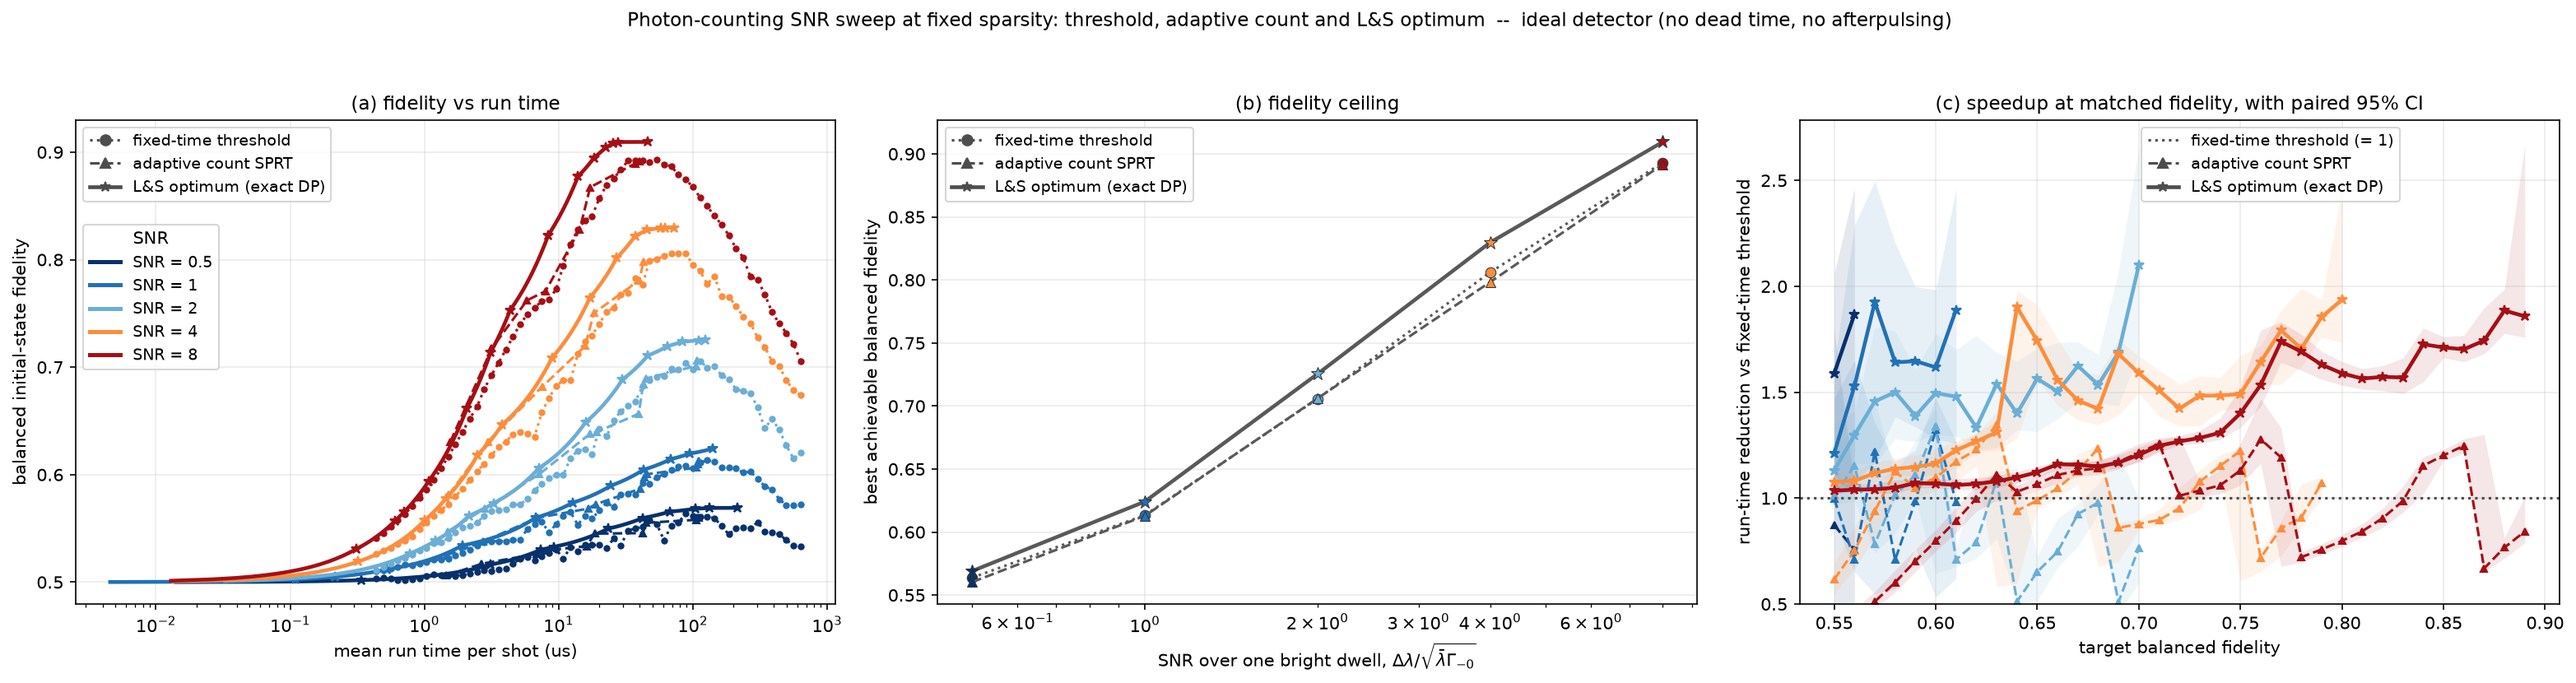
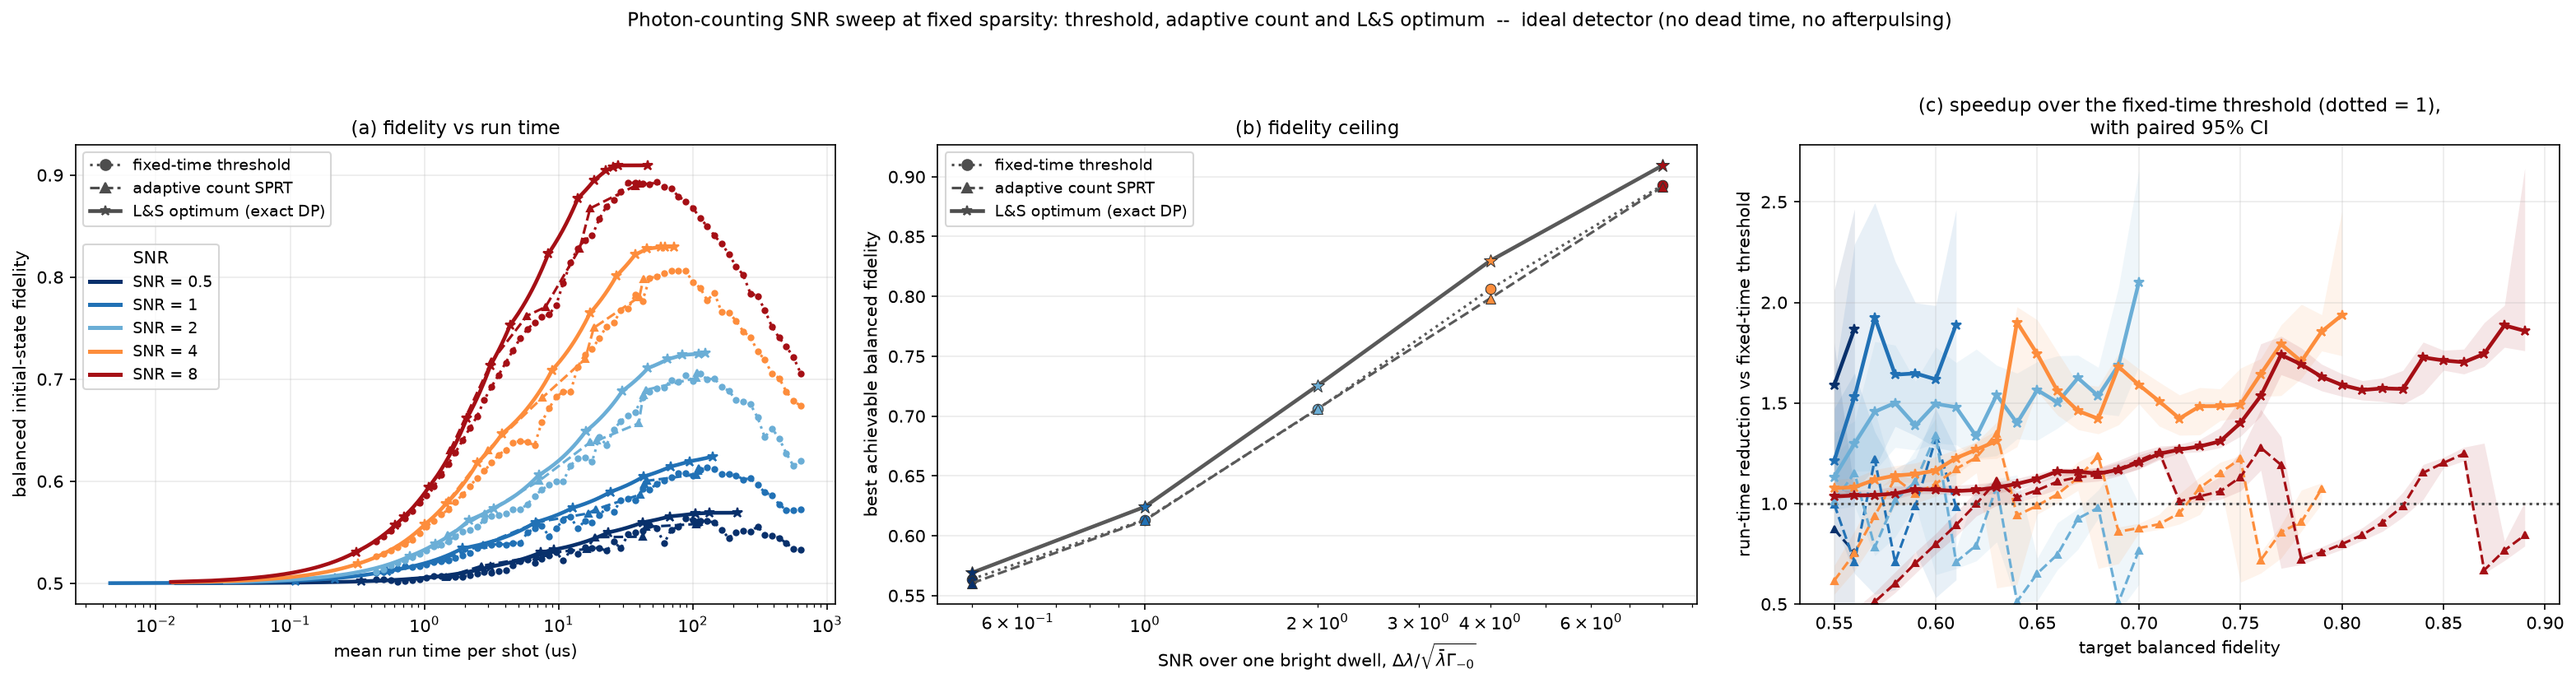
Three-method figure for the ratio and contrast sweeps too
`plot ratio` and `plot contrast` now write <experiment>_thr_count_opt.png
(threshold, adaptive count and L&S optimum only) for every detector model,
like `plot snr`. Panel (c) drops its legend -- line styles are keyed in (a)
and (b) -- since on these sweeps it sat on curves wherever it went; its
title names the baseline instead.

Claude-Session: https://claude.ai/code/session_01QPNqKJ2d1r7hY2FSJML7Zq

diff --git a/adaptive_charge_state_master.py b/adaptive_charge_state_master.py
@@ -4858,7 +4858,7 @@ def _ceiling_panel(ax, results: list[dict], spec: SweepSpec, series, title="fide
 
 # Sweeps that also get the three-method figure: the baseline, the count-only
 # stopping rule and the exact optimum, without the rules in between.
-THREE_WAY_SWEEPS = ("snr",)
+THREE_WAY_SWEEPS = ("snr", "ratio", "contrast")
 
 _THREE_WAY_METHODS = (
     # (label, line style, marker, width)
@@ -4967,16 +4967,10 @@ def plot_three_way(
     ax.set_ylim(bottom=max(0.5, ax.get_ylim()[0]))
     ax.set_xlabel("target balanced fidelity")
     ax.set_ylabel("run-time reduction vs fixed-time threshold")
-    ax.set_title("(c) speedup at matched fidelity, with paired 95% CI", fontsize=11)
-    speed_handles = [
-        Line2D([], [], color="0.3", ls=ls_t, lw=lw_t, label=f"{lab_t} (= 1)"),
-        Line2D([], [], color="0.3", ls=ls_c, marker=mk_c, lw=lw_c, label=lab_c),
-        Line2D([], [], color="0.3", ls=ls_o, marker=mk_o, lw=lw_o, label=lab_o),
-    ]
-    # Colour is keyed to the swept variable in panel (a); only the methods
-    # need a key here, in the empty space above the curves.
-    ax.legend(handles=speed_handles, loc="upper center",
-              bbox_to_anchor=(0.62, 1.0), fontsize=9)
+    # Line styles are keyed in (a) and (b), colours in (a); a legend here
+    # would sit on some sweep's curves wherever it went.
+    ax.set_title("(c) speedup over the fixed-time threshold (dotted = 1),\n"
+                 "with paired 95% CI", fontsize=11)
     ax.grid(alpha=0.25)
 
     det = results[0]["detector"] if results else DETECTOR_OFF

diff --git a/results/README.md b/results/README.md
@@ -931,10 +931,11 @@ results/analysis.py                     regenerates every number above
 results/<experiment>/<detector>/
     <experiment>_sweep.png              fidelity vs run time, all speedup curves
     <experiment>_vs_x.png               speedup and ceiling vs the swept variable
-    snr_thr_count_opt.png               (snr only) the threshold, adaptive
-                                        count and L&S optimum alone: fidelity
-                                        vs run time, ceiling vs SNR, and
-                                        speedup vs target with paired CIs
+    <experiment>_thr_count_opt.png      (snr, ratio, contrast) the threshold,
+                                        adaptive count and L&S optimum alone:
+                                        fidelity vs run time, ceiling vs the
+                                        swept variable, and speedup vs target
+                                        with paired CIs
     speedup_table.csv                   every target, every method, bootstrap CIs
     fidelity_ceilings.csv               best achievable fidelity per method
     summary.txt                         as printed by `summary`
